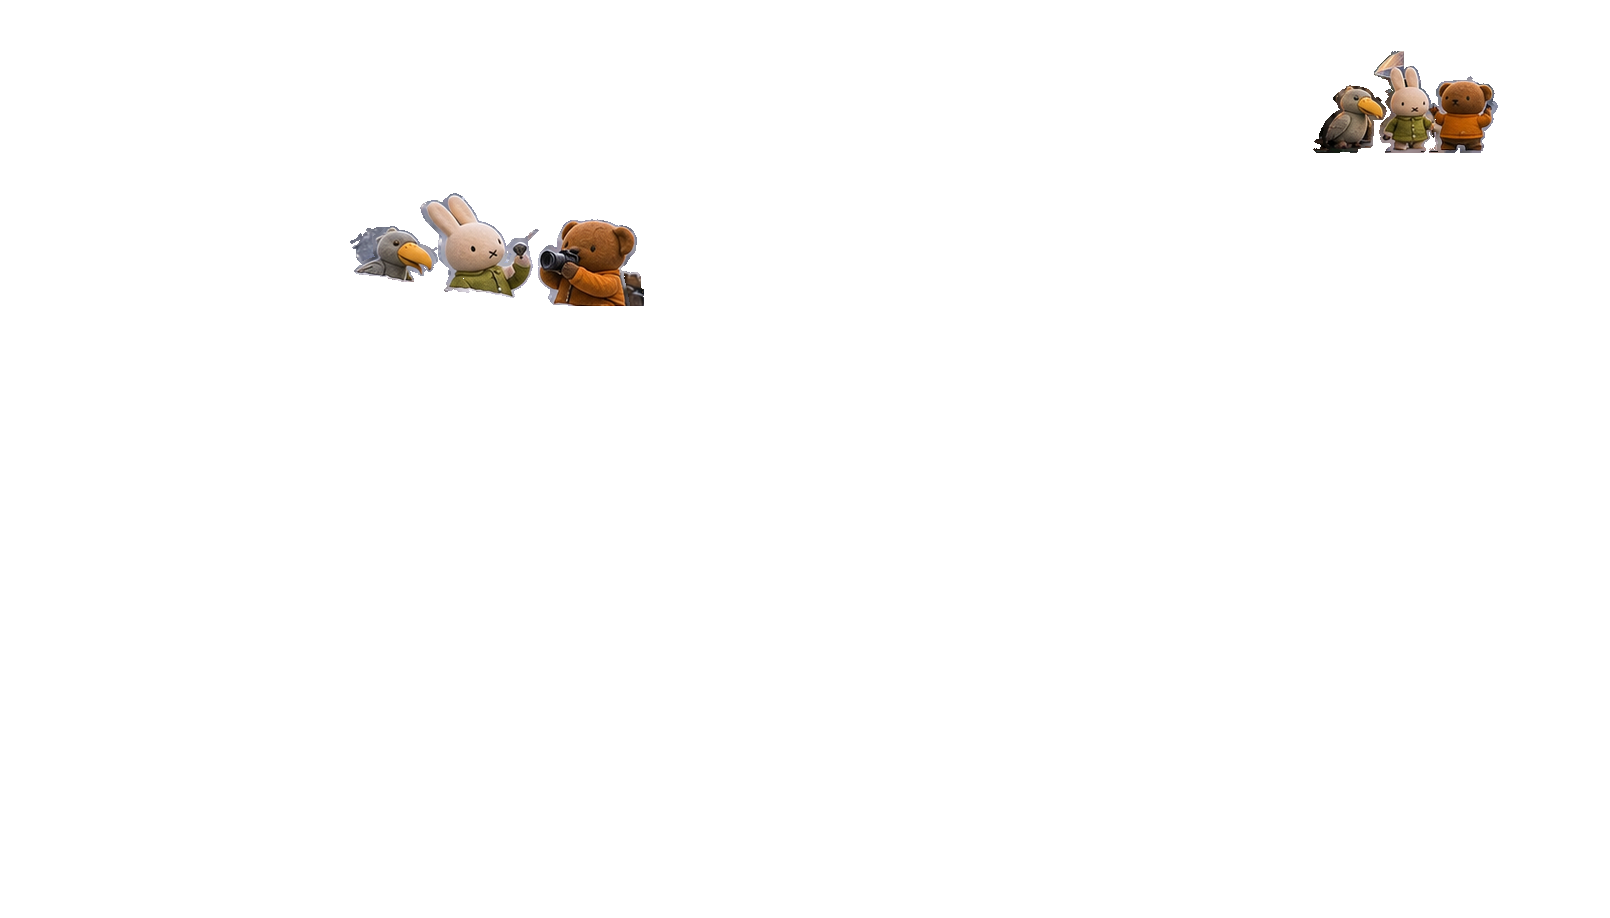
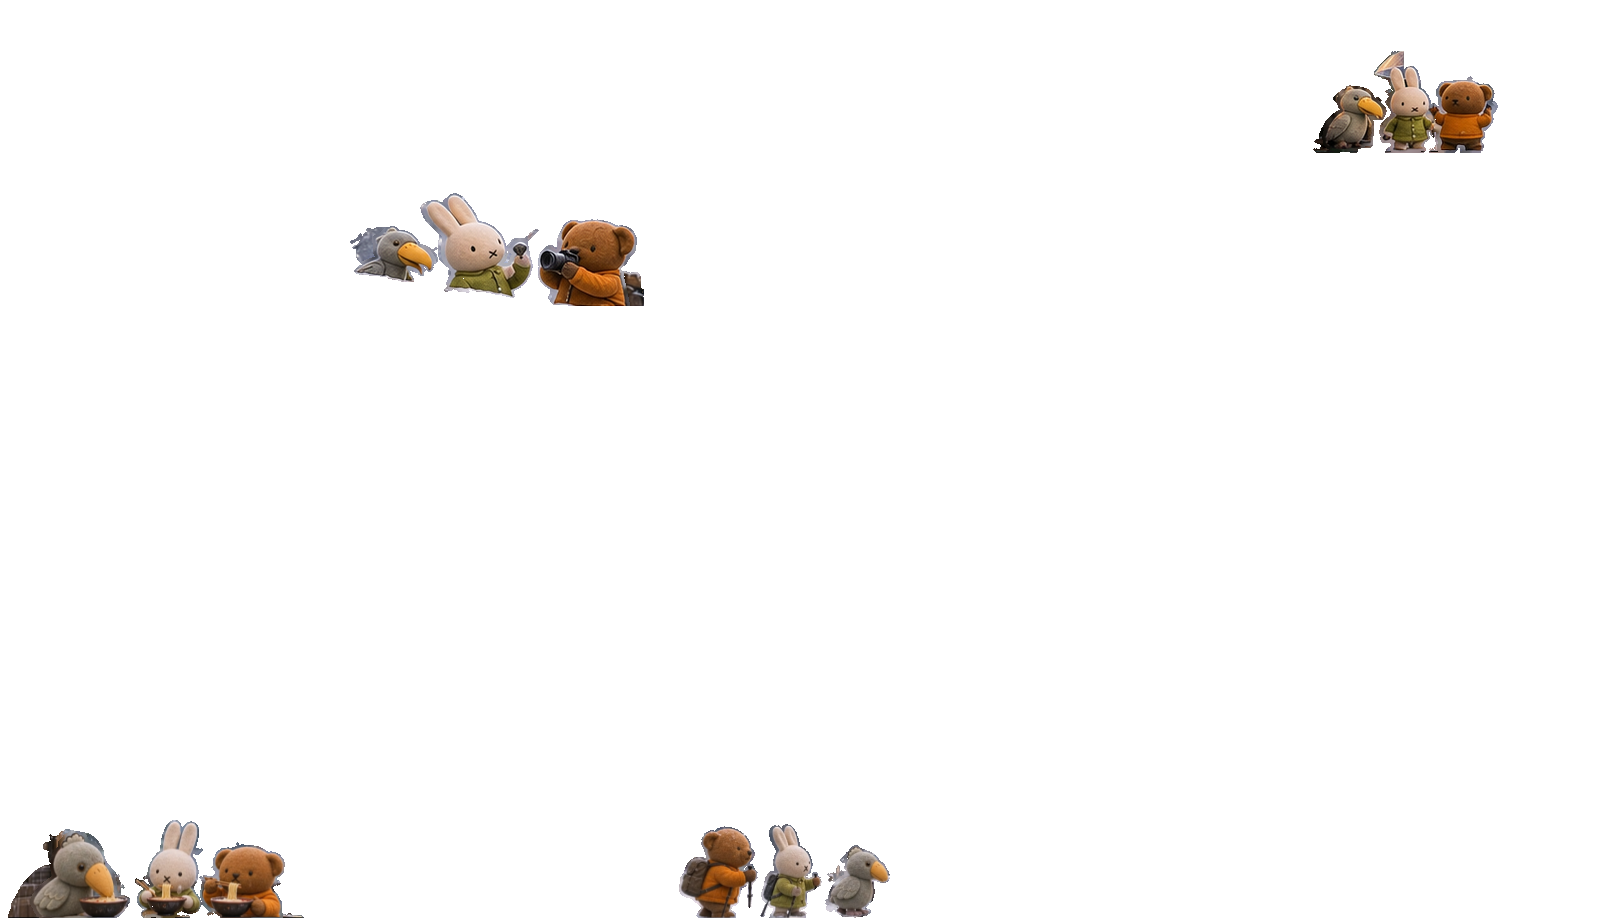
Publish 1847 verified travel weather illustrations

Changed region(s): [[0.0, 0.8845, 0.1863, 1.0], [0.4037, 0.8845, 0.559, 1.0]]

diff --git a/trip-scenery.js b/trip-scenery.js
@@ -109,21 +109,21 @@ const TripScenery = (() => {
     "cranes":{"rev":"9dbd65e7429f","tiles":[14]},
     "cranes-b":{"rev":"913652195caa","tiles":[0,1,2,3,4,5,6,7,8,9,10,12,13,14,16,18,19,20,23,24,25,26,27,28]},
     "default":{"rev":"63680098c4db","tiles":[1,7,9,13,16]},
-    "default-b":{"rev":"c2cb497a2640","tiles":[0,1,2,5,7,8,12,26,28]},
+    "default-b":{"rev":"98b1b1aaa41f","tiles":[0,1,2,4,5,7,8,10,12,14,15,18,19,22,23,26,28]},
     "farm":{"rev":"2758f42d4239","tiles":[4,7,8,11,13]},
     "farm-b":{"rev":"bf90db4f61f0","tiles":[1,2,4,5,6,7,8,10,12,13,14,15,16,18,19,20,22,23,26,28]},
     "furano":{"rev":"8d89f832a68d","tiles":[14]},
-    "furano-b":{"rev":"be5ae2aa807d","tiles":[1,3,4,5,6,7,8,9,11,12,16,17,18,19,21,22,24,26,27]},
+    "furano-b":{"rev":"fa1d6d87f98f","tiles":[1,3,4,5,6,7,8,9,10,11,12,16,17,18,19,21,22,24,25,26,27]},
     "haneda":{"rev":"627adc008342","tiles":[4,10,12]},
-    "haneda-b":{"rev":"02bd2fbb3d41","tiles":[0,1,2,4,6,9,10,16,19,20,22,26]},
+    "haneda-b":{"rev":"e15f40018b91","tiles":[0,1,2,4,6,9,10,12,13,15,16,19,20,22,25,26,29]},
     "hkairport":{"rev":"811bca323825","tiles":[1]},
-    "hkairport-b":{"rev":"459065459e77","tiles":[4,5,6,7,9,10,12,13,15,16,18,19,20,23,24,26,27,28,29]},
+    "hkairport-b":{"rev":"203bb9f87c35","tiles":[1,2,3,4,5,6,7,9,10,11,12,13,15,16,18,19,20,23,24,26,27,28,29]},
     "hongkong":{"rev":"1c5206374d36","tiles":[1,3,13]},
-    "hongkong-b":{"rev":"2b348e899399","tiles":[0,3,4,5,6,8,9,10,22,27,28,29]},
+    "hongkong-b":{"rev":"7c6fab58c6f8","tiles":[0,3,4,5,6,8,9,10,22,24,27,28,29]},
     "ikebukuro":{"rev":"3eac653f613a","tiles":[6,7,12,17,18]},
     "ikebukuro-b":{"rev":"ec6b261a9e95","tiles":[6,7,9,13,14,15,16,18,19,21,23,27,29]},
-    "kushiro":{"rev":"5b3a827855f2","tiles":[0,3,7,16]},
-    "kushiro-b":{"rev":"69d1302f4f13","tiles":[0,1,3,4,8,9,13,14,15,17,18,26,27,28]},
+    "kushiro":{"rev":"ba38cfd09b0c","tiles":[0,3,7,16,18,19]},
+    "kushiro-b":{"rev":"6a5d2d2b4969","tiles":[0,1,3,4,6,7,8,9,12,13,14,15,17,18,20,26,27,28,29]},
     "kussharo":{"rev":"93c2e99f0902","tiles":[4,7]},
     "kussharo-b":{"rev":"87a448982180","tiles":[0,1,2,5,6,7,8,9,10,11,12,13,14,15,16,18,19,20,21,22,23,25,26,27,28,29]},
     "marsh":{"rev":"06ee2357488e","tiles":[4,10]},
@@ -137,8 +137,9 @@ const TripScenery = (() => {
     "roppongi":{"rev":"ee08e606e29f","tiles":[12]},
     "roppongi-b":{"rev":"75a7100560a8","tiles":[3,6,7,8,10,11,12,13,14,15,20,21,22,23,26,29]},
     "rusutsu":{"rev":"15835914c6d3","tiles":[7,11,13,16,18]},
-    "rusutsu-b":{"rev":"d9617b88fed4","tiles":[4,6]},
+    "rusutsu-b":{"rev":"5ddac500da59","tiles":[4,6,25,27]},
     "sapporo":{"rev":"e925743f436f","tiles":[9]},
+    "sapporo-b":{"rev":"962a2dcb4869","tiles":[0,5,6,7,9,13,14,15,18,24,25,26,27,28]},
     "spot-027c9d1e1":{"rev":"ffc74a33bb42","tiles":[0,9,16]},
     "spot-027c9d1e1-b":{"rev":"3a617ddcc12b","tiles":[0,1,2,3,6,7,8,9,10,11,12,13,17,18,19,20,21,22,24,25,26,29]},
     "spot-06158d8b5":{"rev":"a04051825e6b","tiles":[10,12,13]},
@@ -153,21 +154,21 @@ const TripScenery = (() => {
     "spot-1501f4191-b":{"rev":"97bed0a75cef","tiles":[22]},
     "spot-1a6f6070c-b":{"rev":"dfcbc2d221ba","tiles":[0,1,2,3,4,5,6,7,8,9,10,11,12,13,14,15,16,18,19,20,21,22,23,25,26,27,28,29]},
     "spot-1d625ae4f":{"rev":"d953b4ddb572","tiles":[13]},
-    "spot-1d625ae4f-b":{"rev":"ff27335e2c1a","tiles":[0,1,2,3,4,5,6,7,8,9,10,12,13,17,19,21,22,23,25,26,27,28,29]},
+    "spot-1d625ae4f-b":{"rev":"37f003a606e7","tiles":[0,1,2,3,4,5,6,7,8,9,10,11,12,13,17,19,21,22,23,25,26,27,28,29]},
     "spot-1f13a90b8":{"rev":"7c6cfdd1cf96","tiles":[0,3,5,7,9,10,13,14,15,16,18,19]},
     "spot-1f13a90b8-b":{"rev":"d10fde68ab2a","tiles":[0,1,3,4,5,6,7,8,9,12,13,14,17,18,20,21,22,23,25,26,27,28,29]},
     "spot-266ac0336":{"rev":"016e874e488a","tiles":[0,3,4,5,6,7,8,9,10,11,12,13,14,15,16,18,19]},
     "spot-266ac0336-b":{"rev":"8c9f89513548","tiles":[0,1,2,3,4,5,6,7,8,9,10,11,12,13,14,15,16,17,18,19,20,21,22,23,24,25,26,27,28,29]},
     "spot-269608d5a":{"rev":"fe0e7d68ff92","tiles":[2,14]},
     "spot-269608d5a-b":{"rev":"90e6aee6142c","tiles":[1,4,5,6,7,8,9,12,13,15,16,18,19,20,21,22,23,26,27,28]},
-    "spot-29d2293a9-b":{"rev":"37270c00e55a","tiles":[3,4,5,6,7,9,10,11,12,14,15,16,17,19,20,22,23,24,26,28,29]},
+    "spot-29d2293a9-b":{"rev":"966422d1d44d","tiles":[3,4,5,6,7,9,10,11,12,13,14,15,16,17,19,20,22,23,24,25,26,28,29]},
     "spot-2e38dcad4":{"rev":"de1a9beaeb6c","tiles":[11,12]},
     "spot-2e38dcad4-b":{"rev":"e18c8743b9d2","tiles":[0,1,2,5,6,7,9,10,12,14,15,16,17,25,27]},
     "spot-31c4556cc":{"rev":"a81956a4427b","tiles":[13,14]},
     "spot-31c4556cc-b":{"rev":"3e049f8e1ba9","tiles":[0,1,2,5,6,7,9,10,11,15,16,18,19,20,21,22,23,24,25,26,27,28,29]},
     "spot-330159020-b":{"rev":"ce4efc4ec4d9","tiles":[0,7,10,17,22,25,29]},
     "spot-33cad23f7":{"rev":"7e078e457fee","tiles":[7]},
-    "spot-33cad23f7-b":{"rev":"bdbb10acb290","tiles":[0,1,3,4,5,6,8,9,12,13,14,15,17,20,21,25,26,27,28,29]},
+    "spot-33cad23f7-b":{"rev":"05dd32216d98","tiles":[0,1,3,4,5,6,8,9,12,13,14,15,17,20,21,23,25,26,27,28,29]},
     "spot-3c6782d38":{"rev":"95e40e1907f0","tiles":[13,14]},
     "spot-3c6782d38-b":{"rev":"f1f0a96ffd0a","tiles":[0,1,2,4,5,6,7,8,9,10,12,13,15,16,17,18,19,20,21,22,23,24,25,27,28,29]},
     "spot-3f5a2f8fc":{"rev":"f086f04ef697","tiles":[0,1,2,3,7,13,16,17,18,19]},
@@ -179,6 +180,7 @@ const TripScenery = (() => {
     "spot-4238daf29":{"rev":"988d0f0b54b1","tiles":[0,2,4,5,6,7,8,9,10,11,12,13,14,15,17,18]},
     "spot-4238daf29-b":{"rev":"9ce5ea3f7159","tiles":[0,1,2,3,4,5,6,7,8,9,10,11,12,13,14,15,16,17,18,19,20,21,22,23,24,25,26,27,28,29]},
     "spot-4398c48a7":{"rev":"717ad5046dbd","tiles":[9,11,15]},
+    "spot-4398c48a7-b":{"rev":"b16c31167c81","tiles":[7,8,9,10,12]},
     "spot-46fc6bef6":{"rev":"975e8b2c7046","tiles":[7]},
     "spot-4732296ba":{"rev":"b50dbc725b27","tiles":[12,13]},
     "spot-495afce62":{"rev":"8199c54fe843","tiles":[14]},
@@ -191,7 +193,7 @@ const TripScenery = (() => {
     "spot-59c3d0ebd":{"rev":"7f8a63b309a1","tiles":[2,9,11,13,17]},
     "spot-5df3b4a31":{"rev":"99a3dba5bf36","tiles":[4]},
     "spot-627afeabe":{"rev":"852212a79865","tiles":[0,3,4,6,7,8,10,11,12,13,14,16,19]},
-    "spot-627afeabe-b":{"rev":"dd336f5e2214","tiles":[0,2,3,4,6,7,10,13,14,15,16,17,19,20,21,23,24,26,27,28,29]},
+    "spot-627afeabe-b":{"rev":"83191e3b0fba","tiles":[0,2,3,4,5,6,7,9,10,11,13,14,15,16,17,19,20,21,22,23,24,25,26,27,28,29]},
     "spot-628c4952e":{"rev":"b41c8cc7518c","tiles":[4,6,7,8,9,10,11,12,13,15]},
     "spot-628c4952e-b":{"rev":"113af7333bba","tiles":[0,1,3,4,5,8,10,13,14,17,18,19,21,22,23,25,26,27,28,29]},
     "spot-66c6acb84":{"rev":"36371ac9b8be","tiles":[0,2,4,5,6,7,8,10,12,13,14,16]},
@@ -201,7 +203,7 @@ const TripScenery = (() => {
     "spot-78367cc4f":{"rev":"338311576cd1","tiles":[13,15]},
     "spot-78367cc4f-b":{"rev":"0caceddfac3c","tiles":[0,1,2,3,4,5,6,7,8,9,10,11,12,13,14,15,16,17,18,19,20,21,22,23,24,25,26,27,28,29]},
     "spot-7955326ed":{"rev":"95718cba0321","tiles":[0,5,6,8,10,14]},
-    "spot-7955326ed-b":{"rev":"db6e1d144ee7","tiles":[4,13,19,22,23,25,28,29]},
+    "spot-7955326ed-b":{"rev":"92fddc408d2d","tiles":[4,13,19,21,22,23,25,28,29]},
     "spot-79865f593":{"rev":"68a20e51f5c4","tiles":[0,8,9,12,13,16]},
     "spot-79865f593-b":{"rev":"3abe5e9e4b19","tiles":[0,1,3,4,5,6,7,8,9,10,12,13,14,15,17,18,19,20,21,22,23,25,26,27,28,29]},
     "spot-7c1b27ec2":{"rev":"a793d4916773","tiles":[4,7]},
@@ -209,16 +211,19 @@ const TripScenery = (() => {
     "spot-7fef43934":{"rev":"8d9ca06408b6","tiles":[9,13,18]},
     "spot-7fef43934-b":{"rev":"953d87069e7b","tiles":[0,1,2,3,4,5,6,7,8,9,10,11,12,13,14,15,16,17,18,19,20,21,22,23,24,25,26,27,28,29]},
     "spot-83a57353c":{"rev":"e5d2d321ff33","tiles":[7,13]},
+    "spot-83a57353c-b":{"rev":"e13d4fb73a7a","tiles":[0,1,2,5,6,7,8,9,10,12,13,15,16,18,19,20,21,22,25,26,27,28,29]},
     "spot-86577f3e8":{"rev":"cf23b9d582dc","tiles":[7]},
+    "spot-86577f3e8-b":{"rev":"99540c9fe6a6","tiles":[11,12]},
     "spot-86b29bbb2":{"rev":"be6334feaaa8","tiles":[7,13]},
+    "spot-86b29bbb2-b":{"rev":"67db6707b3c1","tiles":[0,1,2,3,4,5]},
     "spot-881d1794c":{"rev":"a6f83018e614","tiles":[13]},
     "spot-885eb86b5":{"rev":"c488ce68dc31","tiles":[13]},
     "spot-89ba4f10d":{"rev":"dfea1c50ecc3","tiles":[4,7,12]},
     "spot-8f335641b":{"rev":"922d7a63f424","tiles":[7,10,13]},
-    "spot-8f335641b-b":{"rev":"b4f9ba2d827f","tiles":[3,4,6,10,12,13,18,24,26,29]},
+    "spot-8f335641b-b":{"rev":"f50fd93e80b5","tiles":[3,4,6,10,12,13,18,24,26,27,29]},
     "spot-90e680279":{"rev":"26e33f022d33","tiles":[11]},
-    "spot-986c13ff5":{"rev":"da63d164cd73","tiles":[0,3,7,9,16]},
-    "spot-986c13ff5-b":{"rev":"5f16122bf693","tiles":[0,1,3,4,5,6,7,9,10,11,13,14,15,16,17,18,19,22,27,29]},
+    "spot-986c13ff5":{"rev":"ce3ac4cbcc9f","tiles":[0,3,7,9,13,16]},
+    "spot-986c13ff5-b":{"rev":"4c16db728ff5","tiles":[0,1,3,4,5,6,7,9,10,11,13,14,15,16,17,18,19,22,25,27,29]},
     "spot-9f53c40a2-b":{"rev":"de3b75298deb","tiles":[1,3,4,5,6,7,10,12,13,14,15,17,18,19,21,26,27,28,29]},
     "spot-a52910691":{"rev":"9fc6c3b9342b","tiles":[0,3,4,6,7,10,13,14,16,19]},
     "spot-a52910691-b":{"rev":"9338e3d73beb","tiles":[0,1,3,4,5,6,7,8,9,10,11,13,14,16,18,21,22,23,24,25,26,27,28]},
@@ -249,7 +254,7 @@ const TripScenery = (() => {
     "spot-e2b4a3c27-b":{"rev":"557ff2fc1515","tiles":[0,1,2,3,4,5,6,8,9,10,13,14,16,18,19,20,21,25,26,27,28,29]},
     "spot-e3447714a":{"rev":"efe1e24c9597","tiles":[8,11,13]},
     "spot-e4f890e25":{"rev":"02de6256fdd0","tiles":[0,2,3,4,5,6,7,8,9,10,11,12,13,14,16,18,19]},
-    "spot-e4f890e25-b":{"rev":"dd16b83534de","tiles":[0,1,2,3,4,5,6,7,8,9,10,11,12,13,14,15,16,17,19,20,21,22,23,24,25,26,27,28,29]},
+    "spot-e4f890e25-b":{"rev":"2380bfea87f6","tiles":[0,1,2,3,4,5,6,7,8,9,10,11,12,13,14,15,16,17,18,19,20,21,22,23,24,25,26,27,28,29]},
     "spot-e67324d3f":{"rev":"26c45c1deca1","tiles":[0,7,12,18,19]},
     "spot-e67324d3f-b":{"rev":"22e2ba98c0a8","tiles":[0,1,2,3,4,6,7,8,9,10,12,13,14,15,17,19,20,21,22,25,26,27,28,29]},
     "spot-e72214aac":{"rev":"a29c666aca8b","tiles":[2,3]},

diff --git a/index.html b/index.html
@@ -1,5 +1,5 @@
 <!doctype html>
-<html lang="zh-HK" data-build="20261124-v70">
+<html lang="zh-HK" data-build="20261124-v71">
 <head>
 <meta charset="utf-8">
 <meta name="viewport" content="width=device-width, initial-scale=1, viewport-fit=cover">
@@ -1116,7 +1116,7 @@
       <button data-act="trips">切換旅程</button>
       <button data-act="settings">設定</button>
       <div class="verrow">
-        <div id="ver" data-build="20261124-v70" style="padding-top:0">v70</div>
+        <div id="ver" data-build="20261124-v71" style="padding-top:0">v71</div>
         <button class="forceup" data-act="forceup" type="button">強制更新</button>
       </div>
     </div>
@@ -1182,7 +1182,7 @@
   var SBK = 'sb_publishable_YROUDaSxinrbHH4g7q8gmQ_4za7Ohfj';
   var TABLE='trip_log', AI_URL=SB+'/functions/v1/trip-ai';
   var APP='trip', SESS_KEY='appSession.trip', AUTH=SB+'/functions/v1/app-auth';
-  var APP_VER='20261124-v70';
+  var APP_VER='20261124-v71';
 
   // kind：類型定義（icon、名、有冇座標、預設時間 label）
   var KINDS={
